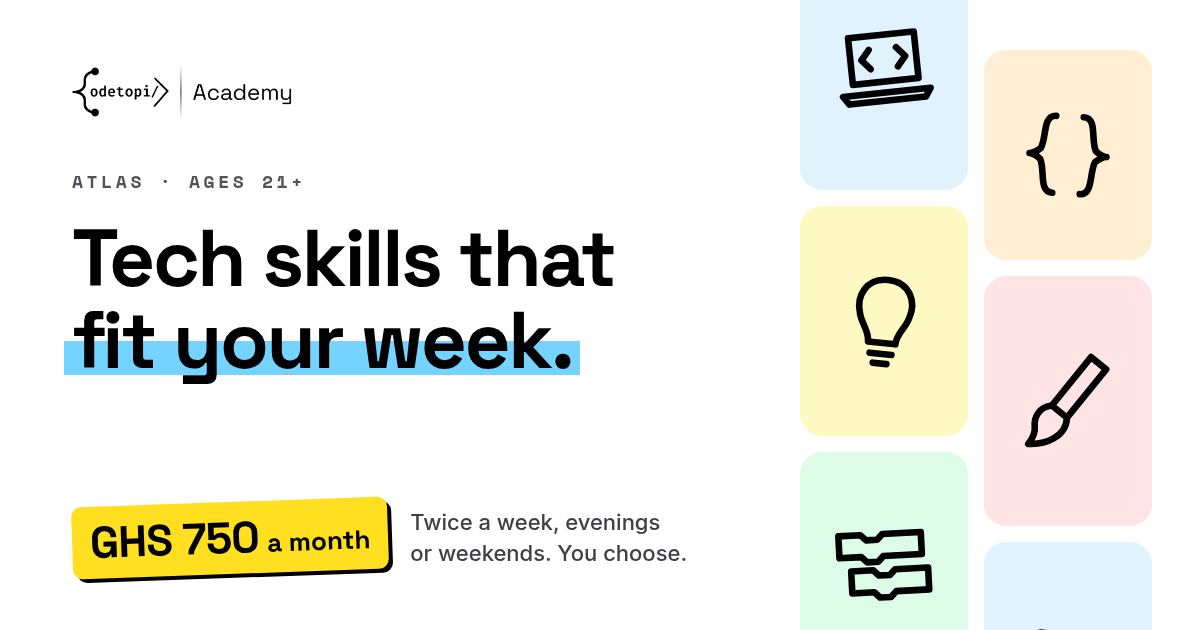
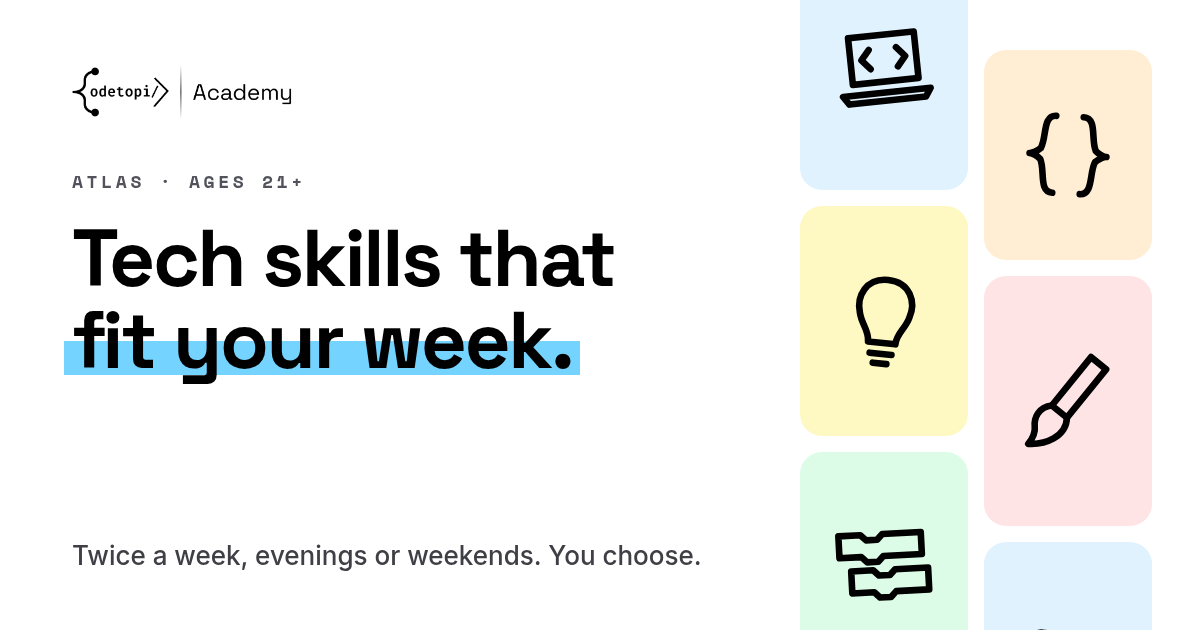
fix: no price in link previews

Changed region(s): [[0.0617, 0.7841, 0.5858, 0.9349]]

diff --git a/scripts/og/kids.html b/scripts/og/kids.html
@@ -16,7 +16,7 @@ h1{margin-top:24px;font-size:84px;line-height:1.02;letter-spacing:-0.03em;font-w
 .price{transform:rotate(-2deg);background:#ffdf20;border-radius:10px;padding:8px 18px;box-shadow:4px 4px 0 #000;white-space:nowrap}
 .price b{font-size:44px;letter-spacing:-0.02em}
 .price i{font-style:normal;font-weight:700;font-size:26px;margin-left:8px}
-.facts{font:500 22px 'Inter',sans-serif;color:#3f3f46;line-height:1.4}
+.facts{font:500 26px 'Inter',sans-serif;color:#3f3f46;line-height:1.4}
 .right{width:400px;display:grid;grid-template-columns:1fr 1fr;gap:16px;padding:0 48px 0 0;margin-top:-60px}
 .col{display:flex;flex-direction:column;gap:16px}
 .col.b{margin-top:110px}
@@ -26,7 +26,7 @@ h1{margin-top:24px;font-size:84px;line-height:1.02;letter-spacing:-0.03em;font-w
 <img class="logo" src="../../src/assets/Codetopia Academy - Logo Black.png">
 <div class="sticker">&#9888; Warning: they might start fixing everything.</div>
 <h1>Learn tech.<br>Build <span class="mark"><span>cool stuff.</span></span></h1>
-<div class="row"><div class="price"><b>GHS 500</b><i>a month</i></div><div class="facts">Live online, every<br>Saturday and Sunday</div></div>
+<div class="row"><div class="facts">Small live classes online, every Saturday and Sunday</div></div>
 </div>
 <div class="right"><div class="col"><div class="tile" style="background:#ffdf20;height:250px"><svg viewBox="0 0 40 40" width="110" height="110" style="transform:rotate(-6deg)" fill="none" stroke="#000" stroke-width="2.4" stroke-linecap="round" stroke-linejoin="round"><path d="M20 5 C 12 5, 9 12, 11 18 C 12 22, 15 24, 15 28 L 25 28 C 25 24, 28 22, 29 18 C 31 12, 28 5, 20 5 Z"/><path d="M16 32 L24 32"/><path d="M17.5 35.5 L22.5 35.5"/></svg></div><div class="tile" style="background:#74d4ff;height:230px"><svg viewBox="0 0 40 40" width="110" height="110" style="transform:rotate(6deg)" fill="none" stroke="#000" stroke-width="2.4" stroke-linecap="round" stroke-linejoin="round"><path d="M10 14 L30 14 C 36 14, 38 30, 33 31 C 30 32, 28 26, 24 26 L16 26 C 12 26, 10 32, 7 31 C 2 30, 4 14, 10 14 Z"/><path d="M12 17.5 L12 22.5"/><path d="M9.5 20 L14.5 20"/><path d="M27 18 L27.3 18.3"/><path d="M30.5 21.5 L30.8 21.8"/></svg></div><div class="tile" style="background:#5ee9b5;height:230px"><svg viewBox="0 0 40 40" width="110" height="110" style="transform:rotate(-3deg)" fill="none" stroke="#000" stroke-width="2.4" stroke-linecap="round" stroke-linejoin="round"><path d="M4 8 L12 8 L14 10 L18 10 L20 8 L34 8 L34 16 L20 16 L18 18 L14 18 L12 16 L4 16 Z"/><path d="M8 21 L16 21 L18 23 L22 23 L24 21 L36 21 L36 29 L24 29 L22 31 L18 31 L16 29 L8 29 Z"/></svg></div></div><div class="col b"><div class="tile" style="background:#ffb86a;height:210px"><svg viewBox="0 0 40 40" width="110" height="110" style="transform:rotate(3deg)" fill="none" stroke="#000" stroke-width="2.4" stroke-linecap="round" stroke-linejoin="round"><path d="M10 12 L30 12 L30 30 L10 30 Z"/><path d="M20 12 L20 7"/><path d="M20 5 L20.3 5.3"/><path d="M15.5 19 L15.8 19.3"/><path d="M24.5 19 L24.8 19.3"/><path d="M15 25 L25 25"/><path d="M10 21 L6.5 21"/><path d="M30 21 L33.5 21"/></svg></div><div class="tile" style="background:#ffccd3;height:250px"><svg viewBox="0 0 40 40" width="110" height="110" style="transform:rotate(-6deg)" fill="none" stroke="#000" stroke-width="2.4" stroke-linecap="round" stroke-linejoin="round"><path d="M30 5 L35 10 L19 26 L14 21 Z"/><path d="M14 21 C 9 21, 7 25, 7 28 C 7 31, 5 33, 4 34 C 10 35, 18 33, 19 26"/></svg></div><div class="tile" style="background:#d9f99d;height:220px"><svg viewBox="0 0 40 40" width="110" height="110" style="transform:rotate(6deg)" fill="none" stroke="#000" stroke-width="2.4" stroke-linecap="round" stroke-linejoin="round"><path d="M15 6 C 10 6, 12 14, 10 18 C 9 19, 7 20, 6 20 C 7 20, 9 21, 10 22 C 12 26, 10 34, 15 34"/><path d="M25 6 C 30 6, 28 14, 30 18 C 31 19, 33 20, 34 20 C 33 20, 31 21, 30 22 C 28 26, 30 34, 25 34"/></svg></div></div></div>
 </body></html>

diff --git a/scripts/og/adults.html b/scripts/og/adults.html
@@ -16,7 +16,7 @@ h1{margin-top:24px;font-size:80px;line-height:1.02;letter-spacing:-0.03em;font-w
 .price{transform:rotate(-2deg);background:#ffdf20;border-radius:10px;padding:8px 18px;box-shadow:4px 4px 0 #000;white-space:nowrap}
 .price b{font-size:44px;letter-spacing:-0.02em}
 .price i{font-style:normal;font-weight:700;font-size:26px;margin-left:8px}
-.facts{font:500 22px 'Inter',sans-serif;color:#3f3f46;line-height:1.4}
+.facts{font:500 26px 'Inter',sans-serif;color:#3f3f46;line-height:1.4}
 .right{width:400px;display:grid;grid-template-columns:1fr 1fr;gap:16px;padding:0 48px 0 0;margin-top:-60px}
 .col{display:flex;flex-direction:column;gap:16px}
 .col.b{margin-top:110px}
@@ -26,7 +26,7 @@ h1{margin-top:24px;font-size:80px;line-height:1.02;letter-spacing:-0.03em;font-w
 <img class="logo" src="../../src/assets/Codetopia Academy - Logo Black.png">
 <div class="eyebrow">ATLAS &middot; AGES 21+</div>
 <h1>Tech skills that<br><span class="mark"><span>fit your week.</span></span></h1>
-<div class="row"><div class="price"><b>GHS 750</b><i>a month</i></div><div class="facts">Twice a week, evenings<br>or weekends. You choose.</div></div>
+<div class="row"><div class="facts">Twice a week, evenings or weekends. You choose.</div></div>
 </div>
 <div class="right"><div class="col"><div class="tile" style="background:#e0f2fe;height:250px"><svg viewBox="0 0 40 40" width="110" height="110" style="transform:rotate(-6deg)" fill="none" stroke="#000" stroke-width="2.4" stroke-linecap="round" stroke-linejoin="round"><path d="M8 9 L32 9 L32 26 L8 26 Z"/><path d="M4 30 L36 30 L34 33 L6 33 Z"/><path d="M15 14 L12 17.5 L15 21"/><path d="M25 14 L28 17.5 L25 21"/></svg></div><div class="tile" style="background:#fef9c2;height:230px"><svg viewBox="0 0 40 40" width="110" height="110" style="transform:rotate(6deg)" fill="none" stroke="#000" stroke-width="2.4" stroke-linecap="round" stroke-linejoin="round"><path d="M20 5 C 12 5, 9 12, 11 18 C 12 22, 15 24, 15 28 L 25 28 C 25 24, 28 22, 29 18 C 31 12, 28 5, 20 5 Z"/><path d="M16 32 L24 32"/><path d="M17.5 35.5 L22.5 35.5"/></svg></div><div class="tile" style="background:#dcfce7;height:230px"><svg viewBox="0 0 40 40" width="110" height="110" style="transform:rotate(-3deg)" fill="none" stroke="#000" stroke-width="2.4" stroke-linecap="round" stroke-linejoin="round"><path d="M4 8 L12 8 L14 10 L18 10 L20 8 L34 8 L34 16 L20 16 L18 18 L14 18 L12 16 L4 16 Z"/><path d="M8 21 L16 21 L18 23 L22 23 L24 21 L36 21 L36 29 L24 29 L22 31 L18 31 L16 29 L8 29 Z"/></svg></div></div><div class="col b"><div class="tile" style="background:#ffedd4;height:210px"><svg viewBox="0 0 40 40" width="110" height="110" style="transform:rotate(3deg)" fill="none" stroke="#000" stroke-width="2.4" stroke-linecap="round" stroke-linejoin="round"><path d="M15 6 C 10 6, 12 14, 10 18 C 9 19, 7 20, 6 20 C 7 20, 9 21, 10 22 C 12 26, 10 34, 15 34"/><path d="M25 6 C 30 6, 28 14, 30 18 C 31 19, 33 20, 34 20 C 33 20, 31 21, 30 22 C 28 26, 30 34, 25 34"/></svg></div><div class="tile" style="background:#ffe4e6;height:250px"><svg viewBox="0 0 40 40" width="110" height="110" style="transform:rotate(-6deg)" fill="none" stroke="#000" stroke-width="2.4" stroke-linecap="round" stroke-linejoin="round"><path d="M30 5 L35 10 L19 26 L14 21 Z"/><path d="M14 21 C 9 21, 7 25, 7 28 C 7 31, 5 33, 4 34 C 10 35, 18 33, 19 26"/></svg></div><div class="tile" style="background:#e0f2fe;height:220px"><svg viewBox="0 0 40 40" width="110" height="110" style="transform:rotate(6deg)" fill="none" stroke="#000" stroke-width="2.4" stroke-linecap="round" stroke-linejoin="round"><path d="M10 14 L30 14 C 36 14, 38 30, 33 31 C 30 32, 28 26, 24 26 L16 26 C 12 26, 10 32, 7 31 C 2 30, 4 14, 10 14 Z"/><path d="M12 17.5 L12 22.5"/><path d="M9.5 20 L14.5 20"/><path d="M27 18 L27.3 18.3"/><path d="M30.5 21.5 L30.8 21.8"/></svg></div></div></div>
 </body></html>

diff --git a/index.html b/index.html
@@ -5,24 +5,24 @@
     <link rel="icon" type="image/png" href="/favicon.png" />
     <meta name="viewport" content="width=device-width, initial-scale=1.0" />
     <title>Codetopia Academy | Learn tech. Build cool stuff.</title>
-    <meta name="description" content="Small live online tech classes, every Saturday and Sunday. Groups of about five, trained tutors, GHS 500 a month." />
+    <meta name="description" content="Small live online tech classes, every Saturday and Sunday. Groups of about five, with trained tutors." />
     <link rel="canonical" href="https://academy.codetopia.org/" />
     <meta property="og:type" content="website" />
     <meta property="og:site_name" content="Codetopia Academy" />
     <meta property="og:locale" content="en_GH" />
     <meta property="og:url" content="https://academy.codetopia.org/" />
     <meta property="og:title" content="Codetopia Academy | Learn tech. Build cool stuff." />
-    <meta property="og:description" content="Small live online tech classes, every Saturday and Sunday. Groups of about five, trained tutors, GHS 500 a month." />
+    <meta property="og:description" content="Small live online tech classes, every Saturday and Sunday. Groups of about five, with trained tutors." />
     <meta property="og:image" content="https://academy.codetopia.org/og-kids.png" />
     <meta property="og:image:width" content="1200" />
     <meta property="og:image:height" content="630" />
-    <meta property="og:image:alt" content="Codetopia Academy. Learn tech. Build cool stuff. GHS 500 a month, live online every Saturday and Sunday." />
+    <meta property="og:image:alt" content="Codetopia Academy. Learn tech. Build cool stuff. Live online every Saturday and Sunday." />
     <meta name="twitter:card" content="summary_large_image" />
     <meta name="twitter:site" content="@codetopia_aca" />
     <meta name="twitter:title" content="Codetopia Academy | Learn tech. Build cool stuff." />
-    <meta name="twitter:description" content="Small live online tech classes, every Saturday and Sunday. Groups of about five, trained tutors, GHS 500 a month." />
+    <meta name="twitter:description" content="Small live online tech classes, every Saturday and Sunday. Groups of about five, with trained tutors." />
     <meta name="twitter:image" content="https://academy.codetopia.org/og-kids.png" />
-    <meta name="twitter:image:alt" content="Codetopia Academy. Learn tech. Build cool stuff. GHS 500 a month, live online every Saturday and Sunday." />
+    <meta name="twitter:image:alt" content="Codetopia Academy. Learn tech. Build cool stuff. Live online every Saturday and Sunday." />
     <link rel="preconnect" href="https://fonts.googleapis.com" />
     <link rel="preconnect" href="https://fonts.gstatic.com" crossorigin />
     <link

diff --git a/adults/index.html b/adults/index.html
@@ -5,24 +5,24 @@
     <link rel="icon" type="image/png" href="/favicon.png" />
     <meta name="viewport" content="width=device-width, initial-scale=1.0" />
     <title>Classes for adults | Codetopia Academy</title>
-    <meta name="description" content="Live online tech classes for adults, twice a week. Evenings or weekends, you choose. GHS 750 a month." />
+    <meta name="description" content="Live online tech classes for adults, twice a week. Evenings or weekends, you choose." />
     <link rel="canonical" href="https://academy.codetopia.org/adults/" />
     <meta property="og:type" content="website" />
     <meta property="og:site_name" content="Codetopia Academy" />
     <meta property="og:locale" content="en_GH" />
     <meta property="og:url" content="https://academy.codetopia.org/adults/" />
     <meta property="og:title" content="Classes for adults | Codetopia Academy" />
-    <meta property="og:description" content="Live online tech classes for adults, twice a week. Evenings or weekends, you choose. GHS 750 a month." />
+    <meta property="og:description" content="Live online tech classes for adults, twice a week. Evenings or weekends, you choose." />
     <meta property="og:image" content="https://academy.codetopia.org/og-adults.png" />
     <meta property="og:image:width" content="1200" />
     <meta property="og:image:height" content="630" />
-    <meta property="og:image:alt" content="Codetopia Academy for adults. Tech skills that fit your week. GHS 750 a month." />
+    <meta property="og:image:alt" content="Codetopia Academy for adults. Tech skills that fit your week." />
     <meta name="twitter:card" content="summary_large_image" />
     <meta name="twitter:site" content="@codetopia_aca" />
     <meta name="twitter:title" content="Classes for adults | Codetopia Academy" />
-    <meta name="twitter:description" content="Live online tech classes for adults, twice a week. Evenings or weekends, you choose. GHS 750 a month." />
+    <meta name="twitter:description" content="Live online tech classes for adults, twice a week. Evenings or weekends, you choose." />
     <meta name="twitter:image" content="https://academy.codetopia.org/og-adults.png" />
-    <meta name="twitter:image:alt" content="Codetopia Academy for adults. Tech skills that fit your week. GHS 750 a month." />
+    <meta name="twitter:image:alt" content="Codetopia Academy for adults. Tech skills that fit your week." />
     <link rel="preconnect" href="https://fonts.googleapis.com" />
     <link rel="preconnect" href="https://fonts.gstatic.com" crossorigin />
     <link
